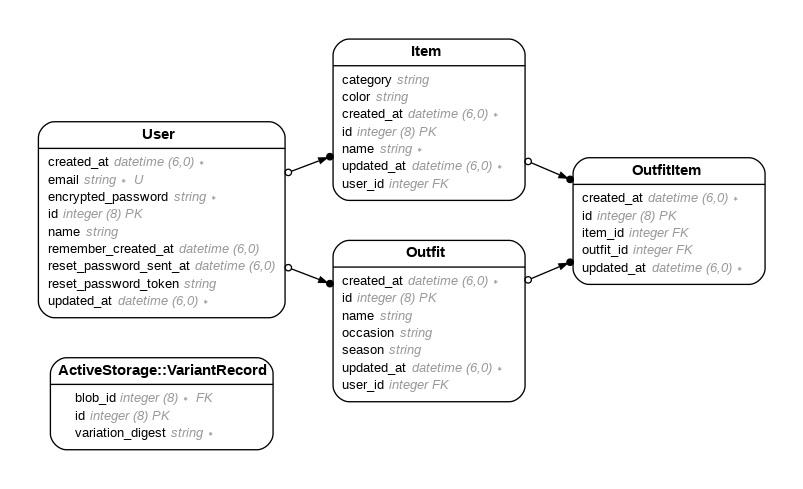
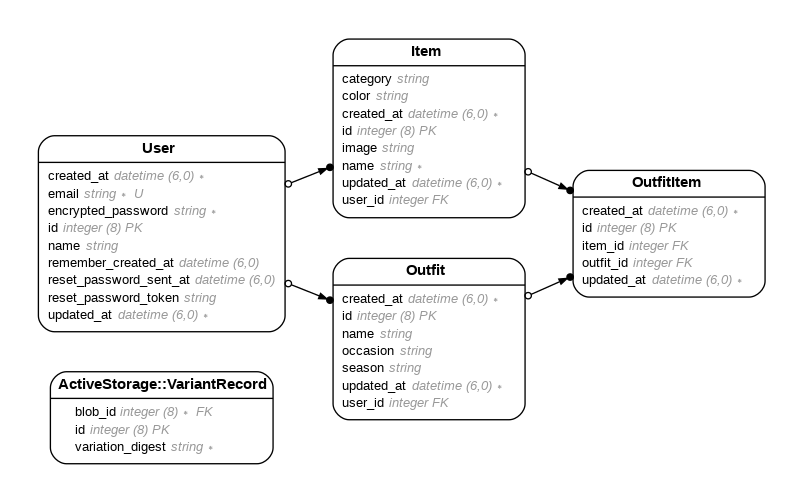
added image to table

diff --git a/db/schema.rb b/db/schema.rb
@@ -10,7 +10,7 @@
 #
 # It's strongly recommended that you check this file into your version control system.
 
-ActiveRecord::Schema[8.0].define(version: 2025_12_06_175636) do
+ActiveRecord::Schema[8.0].define(version: 2025_12_10_161255) do
   # These are extensions that must be enabled in order to support this database
   enable_extension "pg_catalog.plpgsql"
 
@@ -49,6 +49,7 @@ ActiveRecord::Schema[8.0].define(version: 2025_12_06_175636) do
     t.integer "user_id"
     t.datetime "created_at", null: false
     t.datetime "updated_at", null: false
+    t.string "image"
   end
 
   create_table "outfit_items", force: :cascade do |t|

diff --git a/app/models/outfit.rb b/app/models/outfit.rb
@@ -9,6 +9,14 @@
 #  created_at :datetime         not null
 #  updated_at :datetime         not null
 #  user_id    :integer
+#
+#  id         :bigint           not null, primary key
+#  name       :string
+#  occasion   :string
+#  season     :string
+#  created_at :datetime         not null
+#  updated_at :datetime         not null
+#  user_id    :integer
 
 class Outfit < ApplicationRecord
   belongs_to :user, required: true, class_name: "User", foreign_key: "user_id"

diff --git a/app/models/item.rb b/app/models/item.rb
@@ -5,6 +5,7 @@
 #  id         :bigint           not null, primary key
 #  category   :string
 #  color      :string
+#  image      :string
 #  name       :string
 #  created_at :datetime         not null
 #  updated_at :datetime         not null

diff --git a/config/environment.rb b/config/environment.rb
@@ -3,5 +3,6 @@ require_relative "application"
 require "carrierwave"
 require "carrierwave/orm/activerecord"
 
+
 # Initialize the Rails application.
 Rails.application.initialize!

diff --git a/db/migrate/20251210161255_add_image_to_items.rb b/db/migrate/20251210161255_add_image_to_items.rb
@@ -1,0 +1,5 @@
+class AddImageToItems < ActiveRecord::Migration[8.0]
+  def change
+    add_column :items, :image, :string
+  end
+end
